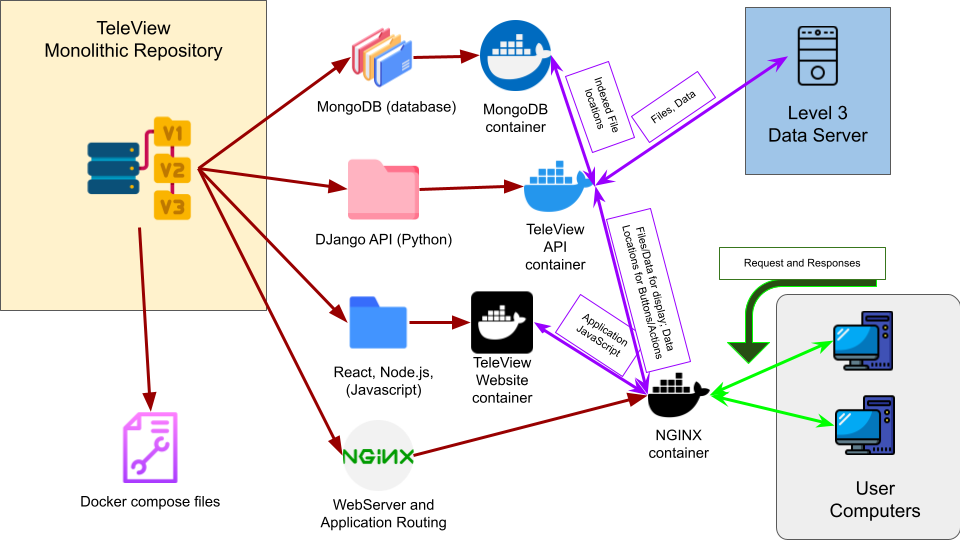
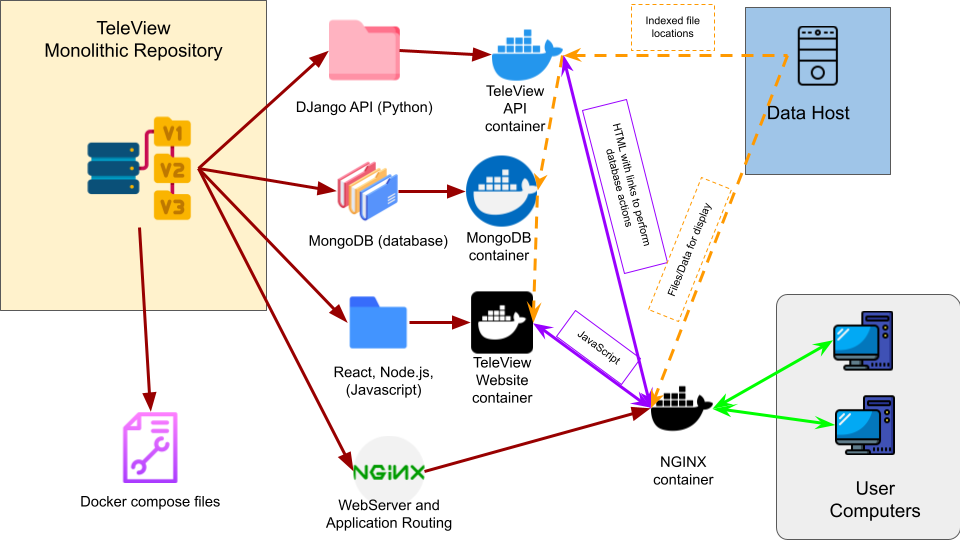
Updating the docs with the application's realized structure.
The docs describe a system I once intended to build.
TeleView's current system is different and much richer, the docs
are being updated to reflect those upgrades.

Two new images to description the expected data topology
and the networked application topology.

New text for getting the application started for the first time on a
new test-computer or data-host computer.

Incremented to version 2.1

diff --git a/README.md b/README.md
@@ -1,27 +1,119 @@
 # TeleView
-A Web Portal for viewing Simons Observatory level-3 data
+A Web Portal for viewing Simons Observatory data
 
-The TeleView projects is a multi-language repository and an assemblage of applications.
-Each application exists in a directory withing the root TeleView folder.
+The TeleView projects is a multi-language repository that is designed to operate four applications:
+
+1. A Django Website that provides an interface to database actions written in Python
+2. A MongoDB database that provides indexing and query capacities for a Host computers data file system(s).
+3. A Next.js-React (JavaScript) front-end that provides a graphical user interface for viewing data.
+4. An NGINX web server that provides a reverse proxy to the Django and Next.js-React applications as well as serving 
+the static data files on the host computer.
+
+
+Each application exists in a directory within the root TeleView folder.
 Most applications can be run independently in a standalone mode for debugging and testing;
 however, the applications are designed to run and be built together using Docker's compose.yaml files located in the
 content root.
 
-This README.md describes deployment of all applications with Docker compose.
+## Scope of this README.md
+
+This README.md describes deployment of all applications together with Docker compose.
 For information on testing or operating and individual applications, see the README.md file in that 
 application's directory.
 
 ## TeleView Components Technologies Stack
 ![TeleView components and relationships](static/TeleViewTechnologyStack.png "TeleView Stack")
 
-## Pointing to data
-The Django project, tvapi, uses an environment variable to see parent directories that contain all the 
-data that is accessible by the TeleView data portal.
+## Why name it TeleView?
 
-These variables are:
+**TeleView** stands for **Tele**scope data **View**er.
+In choosing this name I wanted a name that I
+could easily type thousands of times, a name that was descriptive, and name that was memorable for people
+that only use the application occasionally.
+This is why the application sounds like "television";
+This was amusing to me, and I made the favicon a black circle with yellow letters "tv" to give
+the impression of a monochromatic cathode-ray tube.
+
+# Initial Setup
+
+TeleView is designed to work on any computer that is running Docker.
+It will properly disturb my users, but this application was developed on a Windows 10 machine,
+using Docker Desktop for Windows, and the Windows Subsystem for Linux (WSL2).
+TeleView gets test on a Mac and is deployed on a Linux server.
+It should work on any computer that is running Docker.
+
+## Environment Variables
+
+TeleView uses environment variables to configure the applications.
+These are found in a .env file in the root directly of this project.
+
+> [!WARNING]
+> The .env file is not included in the git repository and is ignored by git.
+> This is because the .env file contains sensitive information.
+
+### Initial Setup
+Copy the .env-default file (in the root of the TeleView repository)
+to .env and edit the values to match your system.
+
+The tvapp requires a special file named .env.production. See the 
+/tvapp/.env.production.example to see what this file should look like.
+Use the convince script init.sh to automatically copy the relevant
+variables from the root .env file to the tvapp/.env.production file.
+
+### Pointing to data
+The most important environment points to the data.
 ```
-- TELEVIEW_SMURF_DATA_DIR  # ./TeleView/test_data/smurf is the default when this is not set
+- TELEVIEW_PLATFORMS_DATA_DIR=/data_path/to_one_or_more_telescopes/
 ```
-Edit this value in the Docker .evn file if running Docker. 
-If deploying locally, set these variables in your environment.
-See the file ".env-default" this project's root directory for an example configurable options.
+Edit this value in the .env file.
+
+> [!TIP]
+> This can be an absolute or relative path on the Host computer.
+
+This is a directory that should contain one or more folders meant to represent
+physically separated systems (different telescopes).
+
+Each telescope folder should contain a folder named `smurf` that contains the data files.
+In the future, it is our intention expanded to include other data types with diniated by
+different folder names. For now, the only folder that is used is `smurf`. 
+If the data directory is missing or empty, the application will not identify that directory as a *platform*
+and any datafiles will not be indexed/available in the database.
+
+> [!TIP]
+> **platform** is an important term in TeleView, and indicates an
+> indexed data attribute used for filtering and returning data.
+
+![img.png](static/PlatformDirStructure.png)
+Caption: The directory structure. In the image example above, `TELEVIEW_PLATFORMS_DATA_DIR=/so/level2-daq/` While this directory has
+multiple subdirectories, only the **lat** and **satp1** directories are indexed as a platforms. The other directories
+are either missing the expected data directory (only *smurf* is allowed at the time of writing) or their
+smurf directory is empty, as is the case for **satp2** in this example.
+
+## Docker, a few tips
+Helping install Docker is beyond the scope of this README.md. Here is the link, https://docs.docker.com/engine/install/,
+it is a little different in every operating system.
+
+If you are going to work on this or any project that uses Docker, you may want to configure
+your system to start docker when the system starts. 
+
+> [!WARNING] 
+> TeleView is set to start when Docker starts, it has the container `restart-policy` set to "always".
+> This is the desired behavior for a production system, but it can be annoying when developing.
+
+> [!TIP]
+> If you are developing this application, remember to clear the cache periodically so as not to
+> overload your disk storage.
+> `docker system prune --force --all` is a good command to know when
+> starting your Docker journey.
+
+> [!TIP]
+> It is the docker server that is required to be running. Most of the time that
+> my docker commands fail it is because I forgot to start the docker server. 
+> To see if the docker-server is running,
+> open a terminal and type `docker version`, you should see both **Client** and **Server** version information.
+
+> [!Warning]
+> For running scripts with docker commands. In Linux all docker commands need a `sudo` prefix,
+> in macOS and Windows, using `sudo` is a mistake for docker. If you are running my TeleView scripts
+> that contain docker commands, you will need to run the script with `sudo` if you are a Linux user.
+> If you are on the site computer, you will not be able to run the scripts as general `sudo` usage is restricted.
